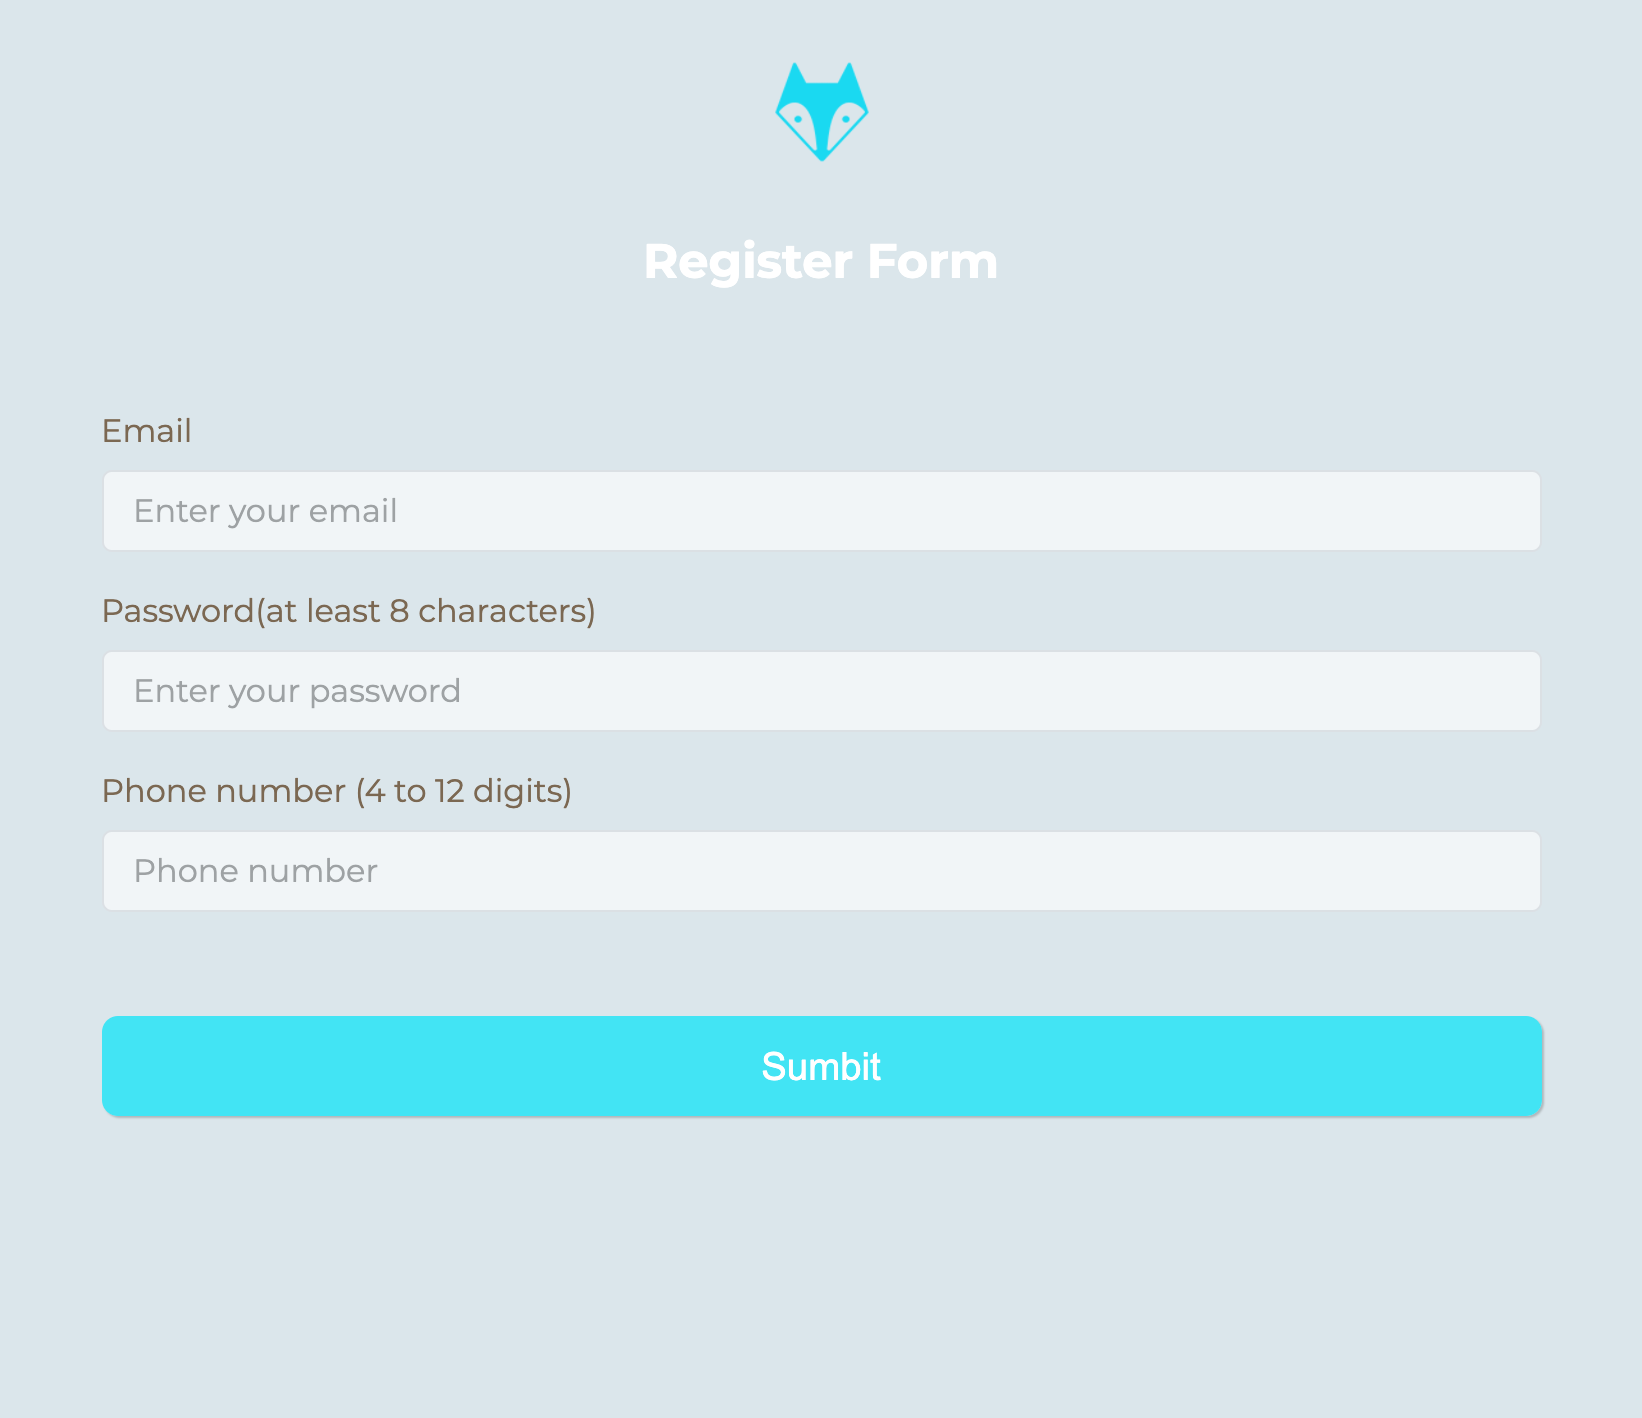
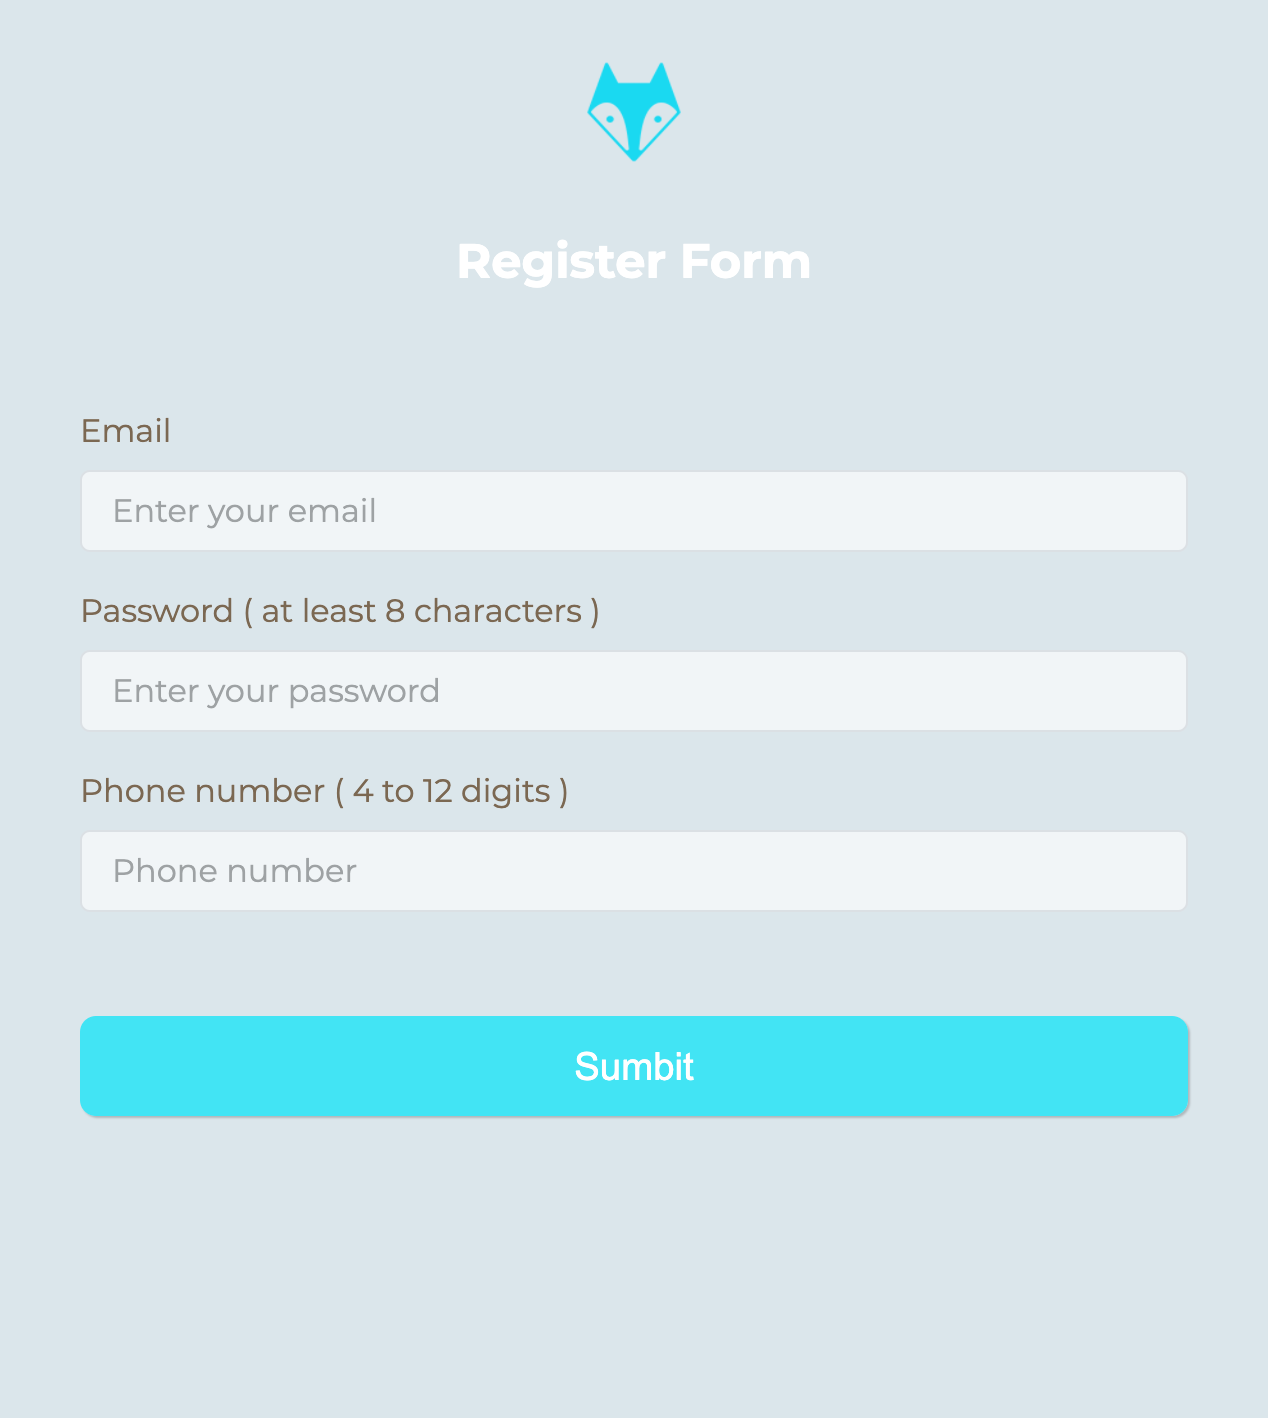
fixed letter spacing

diff --git a/index.html b/index.html
@@ -30,7 +30,8 @@
 
       <div class="field">
         <label for=""
-          >Password<span class="example">(at least 8 characters)</span></label
+          >Password
+          <span class="example">( at least 8 characters )</span></label
         >
         <input
           type="password"
@@ -44,7 +45,7 @@
 
       <div class="field">
         <label for=""
-          >Phone number <span class="example">(4 to 12 digits)</span></label
+          >Phone number <span class="example">( 4 to 12 digits )</span></label
         >
         <input
           type="tel"
